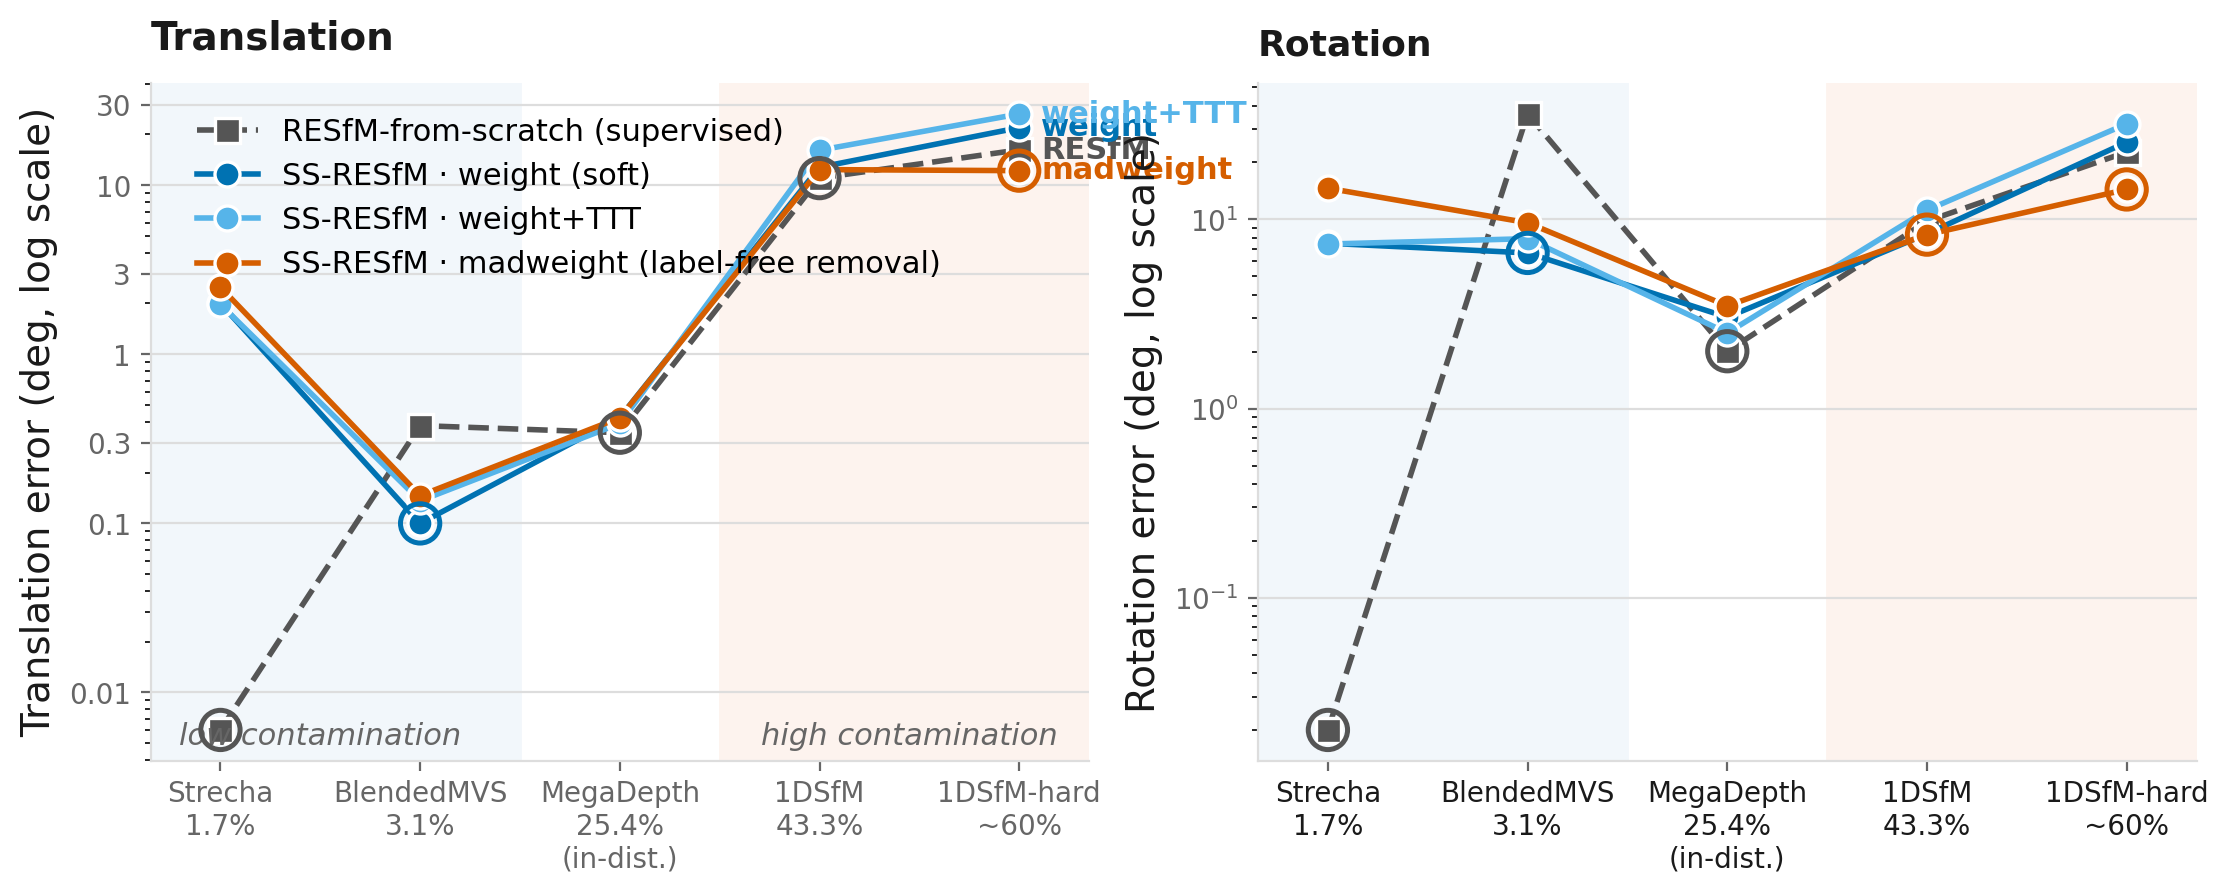
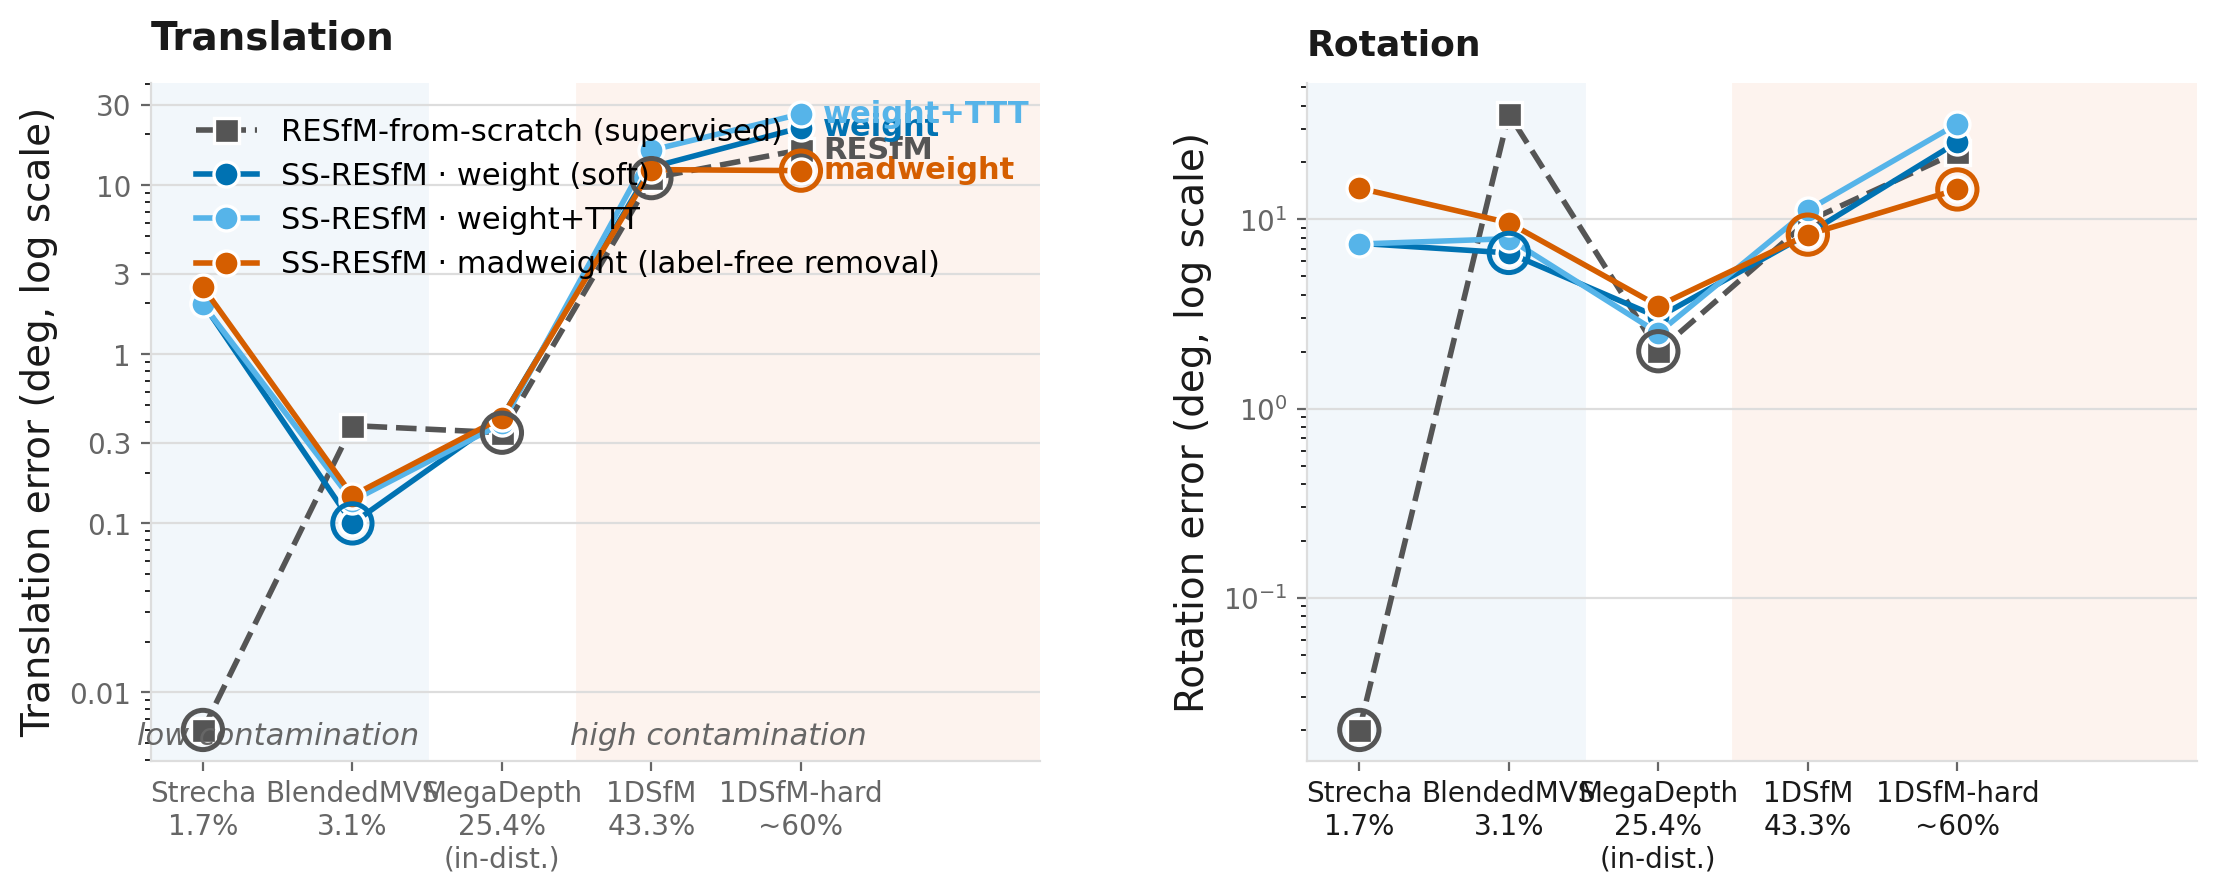
Fig1: widen end-label space (xlim extended, panel gap increased)
Claude-Session: https://claude.ai/code/session_01Tev8UFDgcRH3PtgM6sFBxN

diff --git a/code/make_fig1_complementarity.py b/code/make_fig1_complementarity.py
@@ -30,7 +30,7 @@ C_W, C_T, C_M, C_R = "#0072B2", "#56B4E9", "#D55E00", "#555555"
 INK, MUTED, GRID = "#1a1a1a", "#666666", "#dddddd"
 
 fig, (ax, ax2) = plt.subplots(1, 2, figsize=(13.2, 4.4),
-                              gridspec_kw={"wspace": 0.18})
+                              gridspec_kw={"wspace": 0.3})
 ax.set_yscale("log"); ax2.set_yscale("log")
 
 def plot(series, color, label, ls="-", marker="o"):
@@ -69,7 +69,7 @@ for i in range(5):
     ax2.scatter([i], [vals2[bc]], s=200, facecolors="none", edgecolors=bc,
                 linewidths=1.8, zorder=4, clip_on=False)
 ax2.axvspan(-0.35, 1.5, color="#f2f7fb", zorder=0)
-ax2.axvspan(2.5, 4.35, color="#fdf3ee", zorder=0)
+ax2.axvspan(2.5, 5.6, color="#fdf3ee", zorder=0)
 ax2.set_ylabel("Rotation error (deg, log scale)", fontsize=14, color=INK)
 for s in ["top", "right"]: ax2.spines[s].set_visible(False)
 for s in ["left", "bottom"]: ax2.spines[s].set_color(GRID)
@@ -78,7 +78,7 @@ ax2.tick_params(colors=MUTED)
 
 # regime annotations (shaded bands; labels pinned to the bottom to avoid collisions)
 ax.axvspan(-0.35, 1.5, color="#f2f7fb", zorder=0)
-ax.axvspan(2.5, 4.35, color="#fdf3ee", zorder=0)
+ax.axvspan(2.5, 5.6, color="#fdf3ee", zorder=0)
 ax.text(0.5, 0.0045, "low contamination", ha="center", va="bottom",
         fontsize=11, color=MUTED, style="italic")
 ax.text(3.45, 0.0045, "high contamination", ha="center", va="bottom",
@@ -86,7 +86,7 @@ ax.text(3.45, 0.0045, "high contamination", ha="center", va="bottom",
 
 ax.set_xticks(x); ax.set_xticklabels(labels, fontsize=10, color=INK)
 ax2.set_xticks(x); ax2.set_xticklabels(labels, fontsize=10, color=INK)
-ax.set_xlim(-0.35, 4.35); ax2.set_xlim(-0.35, 4.35)
+ax.set_xlim(-0.35, 5.6); ax2.set_xlim(-0.35, 5.6)
 ax.set_ylabel("Translation error (deg, log scale)", fontsize=14, color=INK)
 ax.yaxis.set_major_locator(FixedLocator([0.01, 0.1, 0.3, 1, 3, 10, 30]))
 ax.yaxis.set_major_formatter(FixedFormatter(["0.01", "0.1", "0.3", "1", "3", "10", "30"]))
